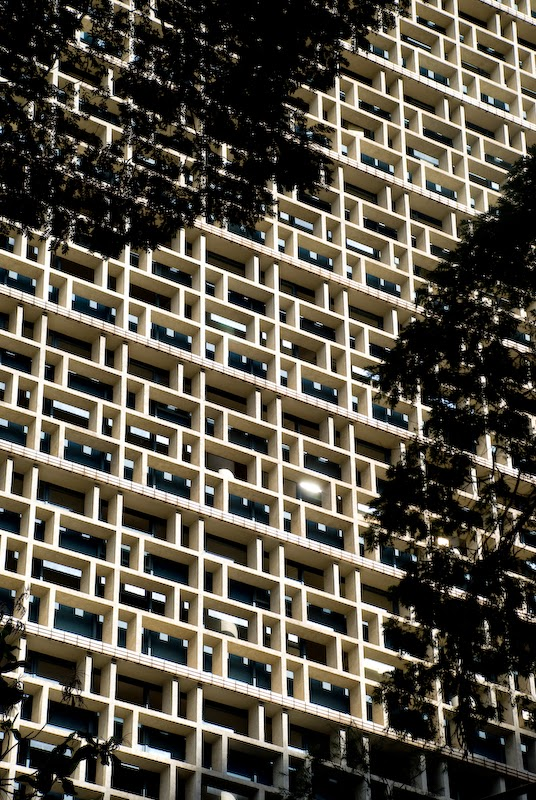
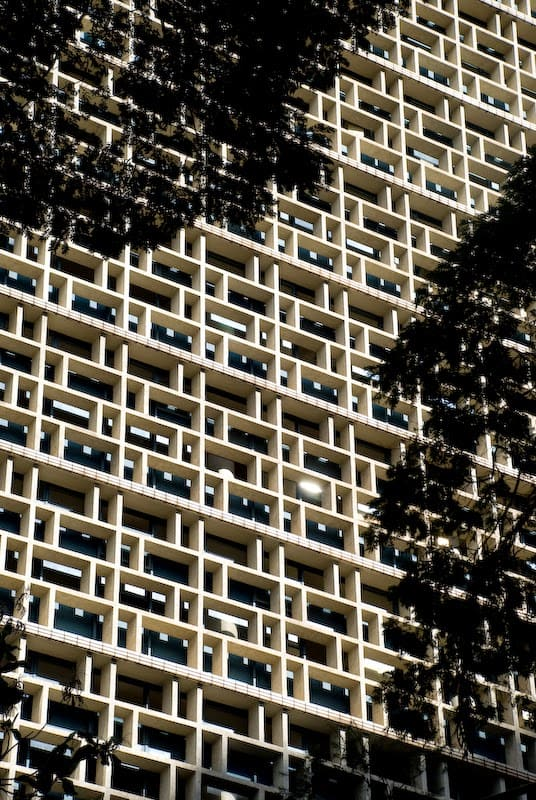
perf(assets): comprime imagens para reduzir o peso das páginas

diff --git a/src/data/equipeMembers.js b/src/data/equipeMembers.js
@@ -26,7 +26,7 @@ const equipeMembers = [
         email: "pedro@pfmp.com.br",
         linkedinLink: "https://www.linkedin.com/in/phefonseca",
         languages: ["Inglês", "Espanhol"],
-        academic: ["Bacharel em Direito pela Universidade Federal de Minas Gerais (UFMG)", "Especialista em Legislativo pelo IDP", "Especializando em Ciência Política pela Universidade Federal do Rio Grande do Sul (UFRGS)"],
+        academic: ["Bacharel em Direito pela Universidade Federal de Minas Gerais (UFMG)", "Especialista em Direito Legislativo pelo IDP", "Especializando em Ciência Política pela Universidade Federal do Rio Grande do Sul (UFRGS)"],
         areas: ["Defesa em Autuações Fiscais", "Contencioso Judicial Estratégico", "Negociações e Transações Tributárias", "Relações Institucionais e Governamentais", "Gestão de Passivos Tributários", "Consultoria Tributária Geral"],
         additional: ["Foi fundador, presidente e conselheiro da Liga Acadêmica de Direito Financeiro e Tributário da Universidade Federal de Minas Gerais (LAFT/UFMG)", "Foi fundador e coordenador discente do Núcleo de Estudos em Direito e Relações Governamentais da Universidade Federal de Minas Gerais (NDRELGOV/UFMG)", "Tem passagens pelo setor público e privado na interlocução entre empresas e governo, monitoramento legislativo e direito tributário"]
     },

diff --git a/src/pages/AreasDeAtuacao/index.jsx b/src/pages/AreasDeAtuacao/index.jsx
@@ -9,7 +9,7 @@ export default function AreasDeAtuacao() {
     <>
       <PageBanner image={areas_de_atuacao} title="Áreas de Atuação" />
       <h2 className={styles.areasDeAtuacaoTitle}>
-        Conheça as áreas que o PFMP Advogados atua
+        Conheça as áreas em que o PFMP Advogados atua
       </h2>
       <section className={styles.areasDeAtuacaoContent}>
         <div className={styles.areasDeAtuacaoCards}>
